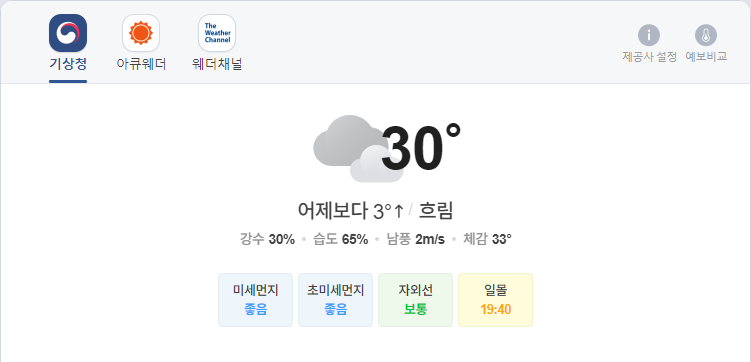
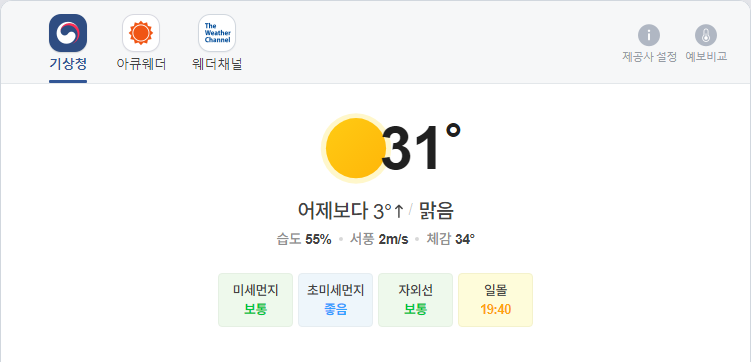
update result

diff --git a/README.md b/README.md
@@ -1,5 +1,5 @@
-##  2021-08-03 12:07:58   화요일 
-##### 날씨   -   어제보다 3° 높아요흐림  
+##  2021-08-03 16:03:09   화요일 
+##### 날씨   -   어제보다 3° 높아요맑음  
 <center><img src="../img/naver_weather_week.png"></center>
 ----
 ----
@@ -16,14 +16,14 @@
 <tr align = "right" > <td>DOW</td><td>34,838.16</td><td>-97.31</td><td><font size="3" color="blue" >-0.28%</font></td><td><font size="3" color="black">0</font></td><td><font size="3" color="black">0</font></td><td>0</td>  </tr>
 <tr align = "right" > <td>NASDAQ</td><td>14,681.07</td><td>8.39</td><td><font size="3" color="red" >0.06%</font></td><td><font size="3" color="black">0</font></td><td><font size="3" color="black">0</font></td><td>0</td>  </tr>
 <tr align = "right" > <td>S&P</td><td>4,387.16</td><td>-8.1</td><td><font size="3" color="blue" >-0.18%</font></td><td><font size="3" color="black">0</font></td><td><font size="3" color="black">0</font></td><td>0</td>  </tr>
-<tr align = "right" > <td>SHANHAI</td><td>3,453.61</td><td>-10.67</td><td><font size="3" color="blue" >-0.31%</font></td><td><font size="3" color="black">0</font></td><td><font size="3" color="black">0</font></td><td>0</td>  </tr>
-<tr align = "right" > <td>INDIA</td><td>52,950.63</td><td>363.79</td><td><font size="3" color="red" >0.69%</font></td><td><font size="3" color="black">0</font></td><td><font size="3" color="black">0</font></td><td>0</td>  </tr>
+<tr align = "right" > <td>SHANHAI</td><td>3,442.34</td><td>-21.94</td><td><font size="3" color="blue" >-0.63%</font></td><td><font size="3" color="black">0</font></td><td><font size="3" color="black">0</font></td><td>0</td>  </tr>
+<tr align = "right" > <td>INDIA</td><td>53,417.23</td><td>466.6</td><td><font size="3" color="red" >0.88%</font></td><td><font size="3" color="black">0</font></td><td><font size="3" color="black">0</font></td><td>0</td>  </tr>
 </table>
 ----
 ##### 시장
 <table border="1" bordercolor="blue" align = "center" >
 <tr align = "right" > <td>Item</td><td>Price</td><td>Diff</td><td>Rate</td><td>Buy</td><td>Sell</td><td>...</td>  </tr>
-<tr align = "right" > <td>USD</td><td>1,151.0</td><td>0.5</td><td><font size="3" color="red">0.04%</font></td><td><font size="3" color="black">1,110</font></td><td><font size="3" color="black">0</font></td><td>0</td>  </tr>
+<tr align = "right" > <td>USD</td><td>1,149.0</td><td>-1.5</td><td><font size="3" color="blue">-0.13%</font></td><td><font size="3" color="black">1,110</font></td><td><font size="3" color="black">0</font></td><td>0</td>  </tr>
 <tr align = "right" > <td>WTI</td><td>71.26</td><td>-2.69</td><td><font size="3" color="blue">-3.63%</font></td><td><font size="3" color="black">29.0</font></td><td><font size="3" color="black">0</font></td><td>0</td>  </tr>
 <tr align = "right" > <td>GOLD</td><td>1,818.0</td><td>5.5</td><td><font size="3" color="red">0.3%</font></td><td><font size="3" color="black">0</font></td><td><font size="3" color="black">0</font></td><td>0</td>  </tr>
 </table>
@@ -31,32 +31,32 @@
 ##### 주가
 <table border="1" bordercolor="blue" align = "center" >
 <tr align = "right" > <td>Item</td><td>Price</td><td>Diff</td><td>Rate</td><td>Purchased</td><td>Sell</td><td>Buy</td>  </tr>
-<tr align = "right" > <td>한국 전력</td><td>25,150</td><td>-250</td><td><font size="3" color="blue">-0.98%</font></td><td>25,720</td><td><font size="3" color="black">27,700</font></td><td><font size="3" color="black">20,700</font></td>  </tr>
-<tr align = "right" > <td>삼성엔지니어.</td><td>23,350</td><td>-400</td><td><font size="3" color="blue">-1.68%</font></td><td>18,935</td><td><font size="3" color="black">20,000</font></td><td><font size="3" color="black">8,000</font></td>  </tr>
-<tr align = "right" > <td>CJ CGV</td><td>28,900</td><td>-300</td><td><font size="3" color="blue">-1.03%</font></td><td>34,895</td><td><font size="3" color="black">36,000</font></td><td><font size="3" color="black">0</font></td>  </tr>
-<tr align = "right" > <td>아모레퍼시픽</td><td>217,000</td><td>-3,500</td><td><font size="3" color="blue">-1.59%</font></td><td>235,350</td><td><font size="3" color="black">240,000</font></td><td><font size="3" color="black">130,000</font></td>  </tr>
-<tr align = "right" > <td>한화</td><td>29,750</td><td>-200</td><td><font size="3" color="blue">-0.67%</font></td><td>25,550</td><td><font size="3" color="black">26,250</font></td><td><font size="3" color="black">26,250</font></td>  </tr>
-<tr align = "right" > <td>NAVER</td><td>425,500</td><td>-8,000</td><td><font size="3" color="blue">-1.85%</font></td><td>147,200</td><td><font size="3" color="black">386,000</font></td><td><font size="3" color="black">286,000</font></td>  </tr>
-<tr align = "right" > <td>LG 화학우</td><td>387,500</td><td>-500</td><td><font size="3" color="blue">-0.13%</font></td><td>202,490</td><td><font size="3" color="black">384,000</font></td><td><font size="3" color="black">384,000</font></td>  </tr>
-<tr align = "right" > <td>스튜디오드래.</td><td>91,000</td><td>-1,100</td><td><font size="3" color="blue">-1.19%</font></td><td>81,243</td><td><font size="3" color="black">85,200</font></td><td><font size="3" color="black">85,200</font></td>  </tr>
-<tr align = "right" > <td>QV미국IT</td><td>31,295</td><td>-195</td><td><font size="3" color="blue">-0.62%</font></td><td>0</td><td><font size="3" color="black">30,000</font></td><td><font size="3" color="black">20,000</font></td>  </tr>
-<tr align = "right" > <td>삼성 전자우</td><td>73,800</td><td>700</td><td><font size="3" color="red">0.96%</font></td><td>60,675</td><td><font size="3" color="black">76,000</font></td><td><font size="3" color="black">55,000</font></td>  </tr>
-<tr align = "right" > <td>LS</td><td>69,900</td><td>-1,200</td><td><font size="3" color="blue">-1.69%</font></td><td>71,900</td><td><font size="3" color="black">82,000</font></td><td><font size="3" color="black">60,000</font></td>  </tr>
-<tr align = "right" > <td>한화에어로스.</td><td>53,800</td><td>-200</td><td><font size="3" color="blue">-0.37%</font></td><td>25,700</td><td><font size="3" color="black">30,000</font></td><td><font size="3" color="black">24,000</font></td>  </tr>
-<tr align = "right" > <td>한화시스템.</td><td>16,750</td><td>-50</td><td><font size="3" color="blue">-0.3%</font></td><td>16,875</td><td><font size="3" color="black">30,000</font></td><td><font size="3" color="black">14,000</font></td>  </tr>
+<tr align = "right" > <td>한국 전력</td><td>25,300</td><td>-100</td><td><font size="3" color="blue">-0.39%</font></td><td>25,720</td><td><font size="3" color="black">27,700</font></td><td><font size="3" color="black">20,700</font></td>  </tr>
+<tr align = "right" > <td>삼성엔지니어.</td><td>23,400</td><td>-350</td><td><font size="3" color="blue">-1.47%</font></td><td>18,935</td><td><font size="3" color="black">20,000</font></td><td><font size="3" color="black">8,000</font></td>  </tr>
+<tr align = "right" > <td>CJ CGV</td><td>29,400</td><td>200</td><td><font size="3" color="red">0.68%</font></td><td>34,895</td><td><font size="3" color="black">36,000</font></td><td><font size="3" color="black">0</font></td>  </tr>
+<tr align = "right" > <td>아모레퍼시픽</td><td>221,000</td><td>500</td><td><font size="3" color="red">0.23%</font></td><td>235,350</td><td><font size="3" color="black">240,000</font></td><td><font size="3" color="black">130,000</font></td>  </tr>
+<tr align = "right" > <td>한화</td><td>29,800</td><td>-150</td><td><font size="3" color="blue">-0.5%</font></td><td>25,550</td><td><font size="3" color="black">26,250</font></td><td><font size="3" color="black">26,250</font></td>  </tr>
+<tr align = "right" > <td>NAVER</td><td>428,000</td><td>-5,500</td><td><font size="3" color="blue">-1.27%</font></td><td>147,200</td><td><font size="3" color="black">386,000</font></td><td><font size="3" color="black">286,000</font></td>  </tr>
+<tr align = "right" > <td>LG 화학우</td><td>388,500</td><td>500</td><td><font size="3" color="red">0.13%</font></td><td>202,490</td><td><font size="3" color="black">384,000</font></td><td><font size="3" color="black">384,000</font></td>  </tr>
+<tr align = "right" > <td>스튜디오드래.</td><td>91,100</td><td>-1,000</td><td><font size="3" color="blue">-1.09%</font></td><td>81,243</td><td><font size="3" color="black">85,200</font></td><td><font size="3" color="black">85,200</font></td>  </tr>
+<tr align = "right" > <td>QV미국IT</td><td>31,355</td><td>-135</td><td><font size="3" color="blue">-0.43%</font></td><td>0</td><td><font size="3" color="black">30,000</font></td><td><font size="3" color="black">20,000</font></td>  </tr>
+<tr align = "right" > <td>삼성 전자우</td><td>74,200</td><td>1,100</td><td><font size="3" color="red">1.5%</font></td><td>60,675</td><td><font size="3" color="black">76,000</font></td><td><font size="3" color="black">55,000</font></td>  </tr>
+<tr align = "right" > <td>LS</td><td>70,600</td><td>-500</td><td><font size="3" color="blue">-0.7%</font></td><td>71,900</td><td><font size="3" color="black">82,000</font></td><td><font size="3" color="black">60,000</font></td>  </tr>
+<tr align = "right" > <td>한화에어로스.</td><td>54,000</td><td>0</td><td><font size="3" color="black">0.0%</font></td><td>25,700</td><td><font size="3" color="black">30,000</font></td><td><font size="3" color="black">24,000</font></td>  </tr>
+<tr align = "right" > <td>한화시스템.</td><td>16,800</td><td>0</td><td><font size="3" color="black">0.0%</font></td><td>16,875</td><td><font size="3" color="black">30,000</font></td><td><font size="3" color="black">14,000</font></td>  </tr>
 <tr align = "right" > <td>카카오</td><td>144,000</td><td>-2,000</td><td><font size="3" color="blue">-1.37%</font></td><td>405,500</td><td><font size="3" color="black">440,000</font></td><td><font size="3" color="orangered">400,000</font></td>  </tr>
-<tr align = "right" > <td>호텔 신라</td><td>91,900</td><td>-600</td><td><font size="3" color="blue">-0.65%</font></td><td>88,650</td><td><font size="3" color="black">100,000</font></td><td><font size="3" color="black">70,000</font></td>  </tr>
-<tr align = "right" > <td>S-Oil</td><td>95,900</td><td>-2,500</td><td><font size="3" color="blue">-2.54%</font></td><td>62,842</td><td><font size="3" color="black">100,000</font></td><td><font size="3" color="black">50,000</font></td>  </tr>
-<tr align = "right" > <td>LG전자</td><td>156,000</td><td>-500</td><td><font size="3" color="blue">-0.32%</font></td><td>82,022</td><td><font size="3" color="black">100,000</font></td><td><font size="3" color="black">60,000</font></td>  </tr>
-<tr align = "right" > <td>KT&G</td><td>82,300</td><td>-300</td><td><font size="3" color="blue">-0.36%</font></td><td>79,700</td><td><font size="3" color="black">100,000</font></td><td><font size="3" color="black">70,000</font></td>  </tr>
-<tr align = "right" > <td>지역난방공사</td><td>42,400</td><td>-150</td><td><font size="3" color="blue">-0.35%</font></td><td>43,590</td><td><font size="3" color="black">60,000</font></td><td><font size="3" color="black">30,000</font></td>  </tr>
-<tr align = "right" > <td>맥쿼리인프라</td><td>12,350</td><td>50</td><td><font size="3" color="red">0.41%</font></td><td>12,577</td><td><font size="3" color="black">30,000</font></td><td><font size="3" color="black">10,000</font></td>  </tr>
-<tr align = "right" > <td>KOEDX은행</td><td>7,245</td><td>-10</td><td><font size="3" color="blue">-0.14%</font></td><td>7,578</td><td><font size="3" color="black">8,825</font></td><td><font size="3" color="black">6,225</font></td>  </tr>
-<tr align = "right" > <td>글로벌럭셔리</td><td>18,375</td><td>120</td><td><font size="3" color="red">0.66%</font></td><td>16,302</td><td><font size="3" color="black">20,000</font></td><td><font size="3" color="black">10,000</font></td>  </tr>
-<tr align = "right" > <td>TIRGER200건설</td><td>3,290</td><td>-45</td><td><font size="3" color="blue">-1.35%</font></td><td>3,440</td><td><font size="3" color="black">4,000</font></td><td><font size="3" color="black">3,000</font></td>  </tr>
-<tr align = "right" > <td>KODEXK미래차</td><td>10,785</td><td>-30</td><td><font size="3" color="blue">-0.28%</font></td><td>10,955</td><td><font size="3" color="black">20,000</font></td><td><font size="3" color="black">10,000</font></td>  </tr>
-<tr align = "right" > <td>TIGER글로벌BBIG</td><td>11,565</td><td>-30</td><td><font size="3" color="blue">-0.26%</font></td><td>11,020</td><td><font size="3" color="black">20,000</font></td><td><font size="3" color="black">10,000</font></td>  </tr>
-<tr align = "right" > <td>TIGER퓨처모빌리티</td><td>11,030</td><td>30</td><td><font size="3" color="red">0.27%</font></td><td>10,695</td><td><font size="3" color="black">20,000</font></td><td><font size="3" color="black">10,000</font></td>  </tr>
-<tr align = "right" > <td>한국금융지주</td><td>95,800</td><td>-100</td><td><font size="3" color="blue">-0.1%</font></td><td>0</td><td><font size="3" color="black">82,000</font></td><td><font size="3" color="black">60,000</font></td>  </tr>
+<tr align = "right" > <td>호텔 신라</td><td>92,600</td><td>100</td><td><font size="3" color="red">0.11%</font></td><td>88,650</td><td><font size="3" color="black">100,000</font></td><td><font size="3" color="black">70,000</font></td>  </tr>
+<tr align = "right" > <td>S-Oil</td><td>97,300</td><td>-1,100</td><td><font size="3" color="blue">-1.12%</font></td><td>62,842</td><td><font size="3" color="black">100,000</font></td><td><font size="3" color="black">50,000</font></td>  </tr>
+<tr align = "right" > <td>LG전자</td><td>156,500</td><td>0</td><td><font size="3" color="black">0.0%</font></td><td>82,022</td><td><font size="3" color="black">100,000</font></td><td><font size="3" color="black">60,000</font></td>  </tr>
+<tr align = "right" > <td>KT&G</td><td>82,600</td><td>0</td><td><font size="3" color="black">0.0%</font></td><td>79,700</td><td><font size="3" color="black">100,000</font></td><td><font size="3" color="black">70,000</font></td>  </tr>
+<tr align = "right" > <td>지역난방공사</td><td>42,450</td><td>-100</td><td><font size="3" color="blue">-0.24%</font></td><td>43,590</td><td><font size="3" color="black">60,000</font></td><td><font size="3" color="black">30,000</font></td>  </tr>
+<tr align = "right" > <td>맥쿼리인프라</td><td>12,300</td><td>0</td><td><font size="3" color="black">0.0%</font></td><td>12,577</td><td><font size="3" color="black">30,000</font></td><td><font size="3" color="black">10,000</font></td>  </tr>
+<tr align = "right" > <td>KOEDX은행</td><td>7,280</td><td>25</td><td><font size="3" color="red">0.34%</font></td><td>7,578</td><td><font size="3" color="black">8,825</font></td><td><font size="3" color="black">6,225</font></td>  </tr>
+<tr align = "right" > <td>글로벌럭셔리</td><td>18,385</td><td>130</td><td><font size="3" color="red">0.71%</font></td><td>16,302</td><td><font size="3" color="black">20,000</font></td><td><font size="3" color="black">10,000</font></td>  </tr>
+<tr align = "right" > <td>TIRGER200건설</td><td>3,305</td><td>-30</td><td><font size="3" color="blue">-0.9%</font></td><td>3,440</td><td><font size="3" color="black">4,000</font></td><td><font size="3" color="black">3,000</font></td>  </tr>
+<tr align = "right" > <td>KODEXK미래차</td><td>10,840</td><td>25</td><td><font size="3" color="red">0.23%</font></td><td>10,955</td><td><font size="3" color="black">20,000</font></td><td><font size="3" color="black">10,000</font></td>  </tr>
+<tr align = "right" > <td>TIGER글로벌BBIG</td><td>11,545</td><td>-50</td><td><font size="3" color="blue">-0.43%</font></td><td>11,020</td><td><font size="3" color="black">20,000</font></td><td><font size="3" color="black">10,000</font></td>  </tr>
+<tr align = "right" > <td>TIGER퓨처모빌리티</td><td>11,045</td><td>45</td><td><font size="3" color="red">0.41%</font></td><td>10,695</td><td><font size="3" color="black">20,000</font></td><td><font size="3" color="black">10,000</font></td>  </tr>
+<tr align = "right" > <td>한국금융지주</td><td>96,200</td><td>300</td><td><font size="3" color="red">0.31%</font></td><td>0</td><td><font size="3" color="black">82,000</font></td><td><font size="3" color="black">60,000</font></td>  </tr>
 </table>
 ----
